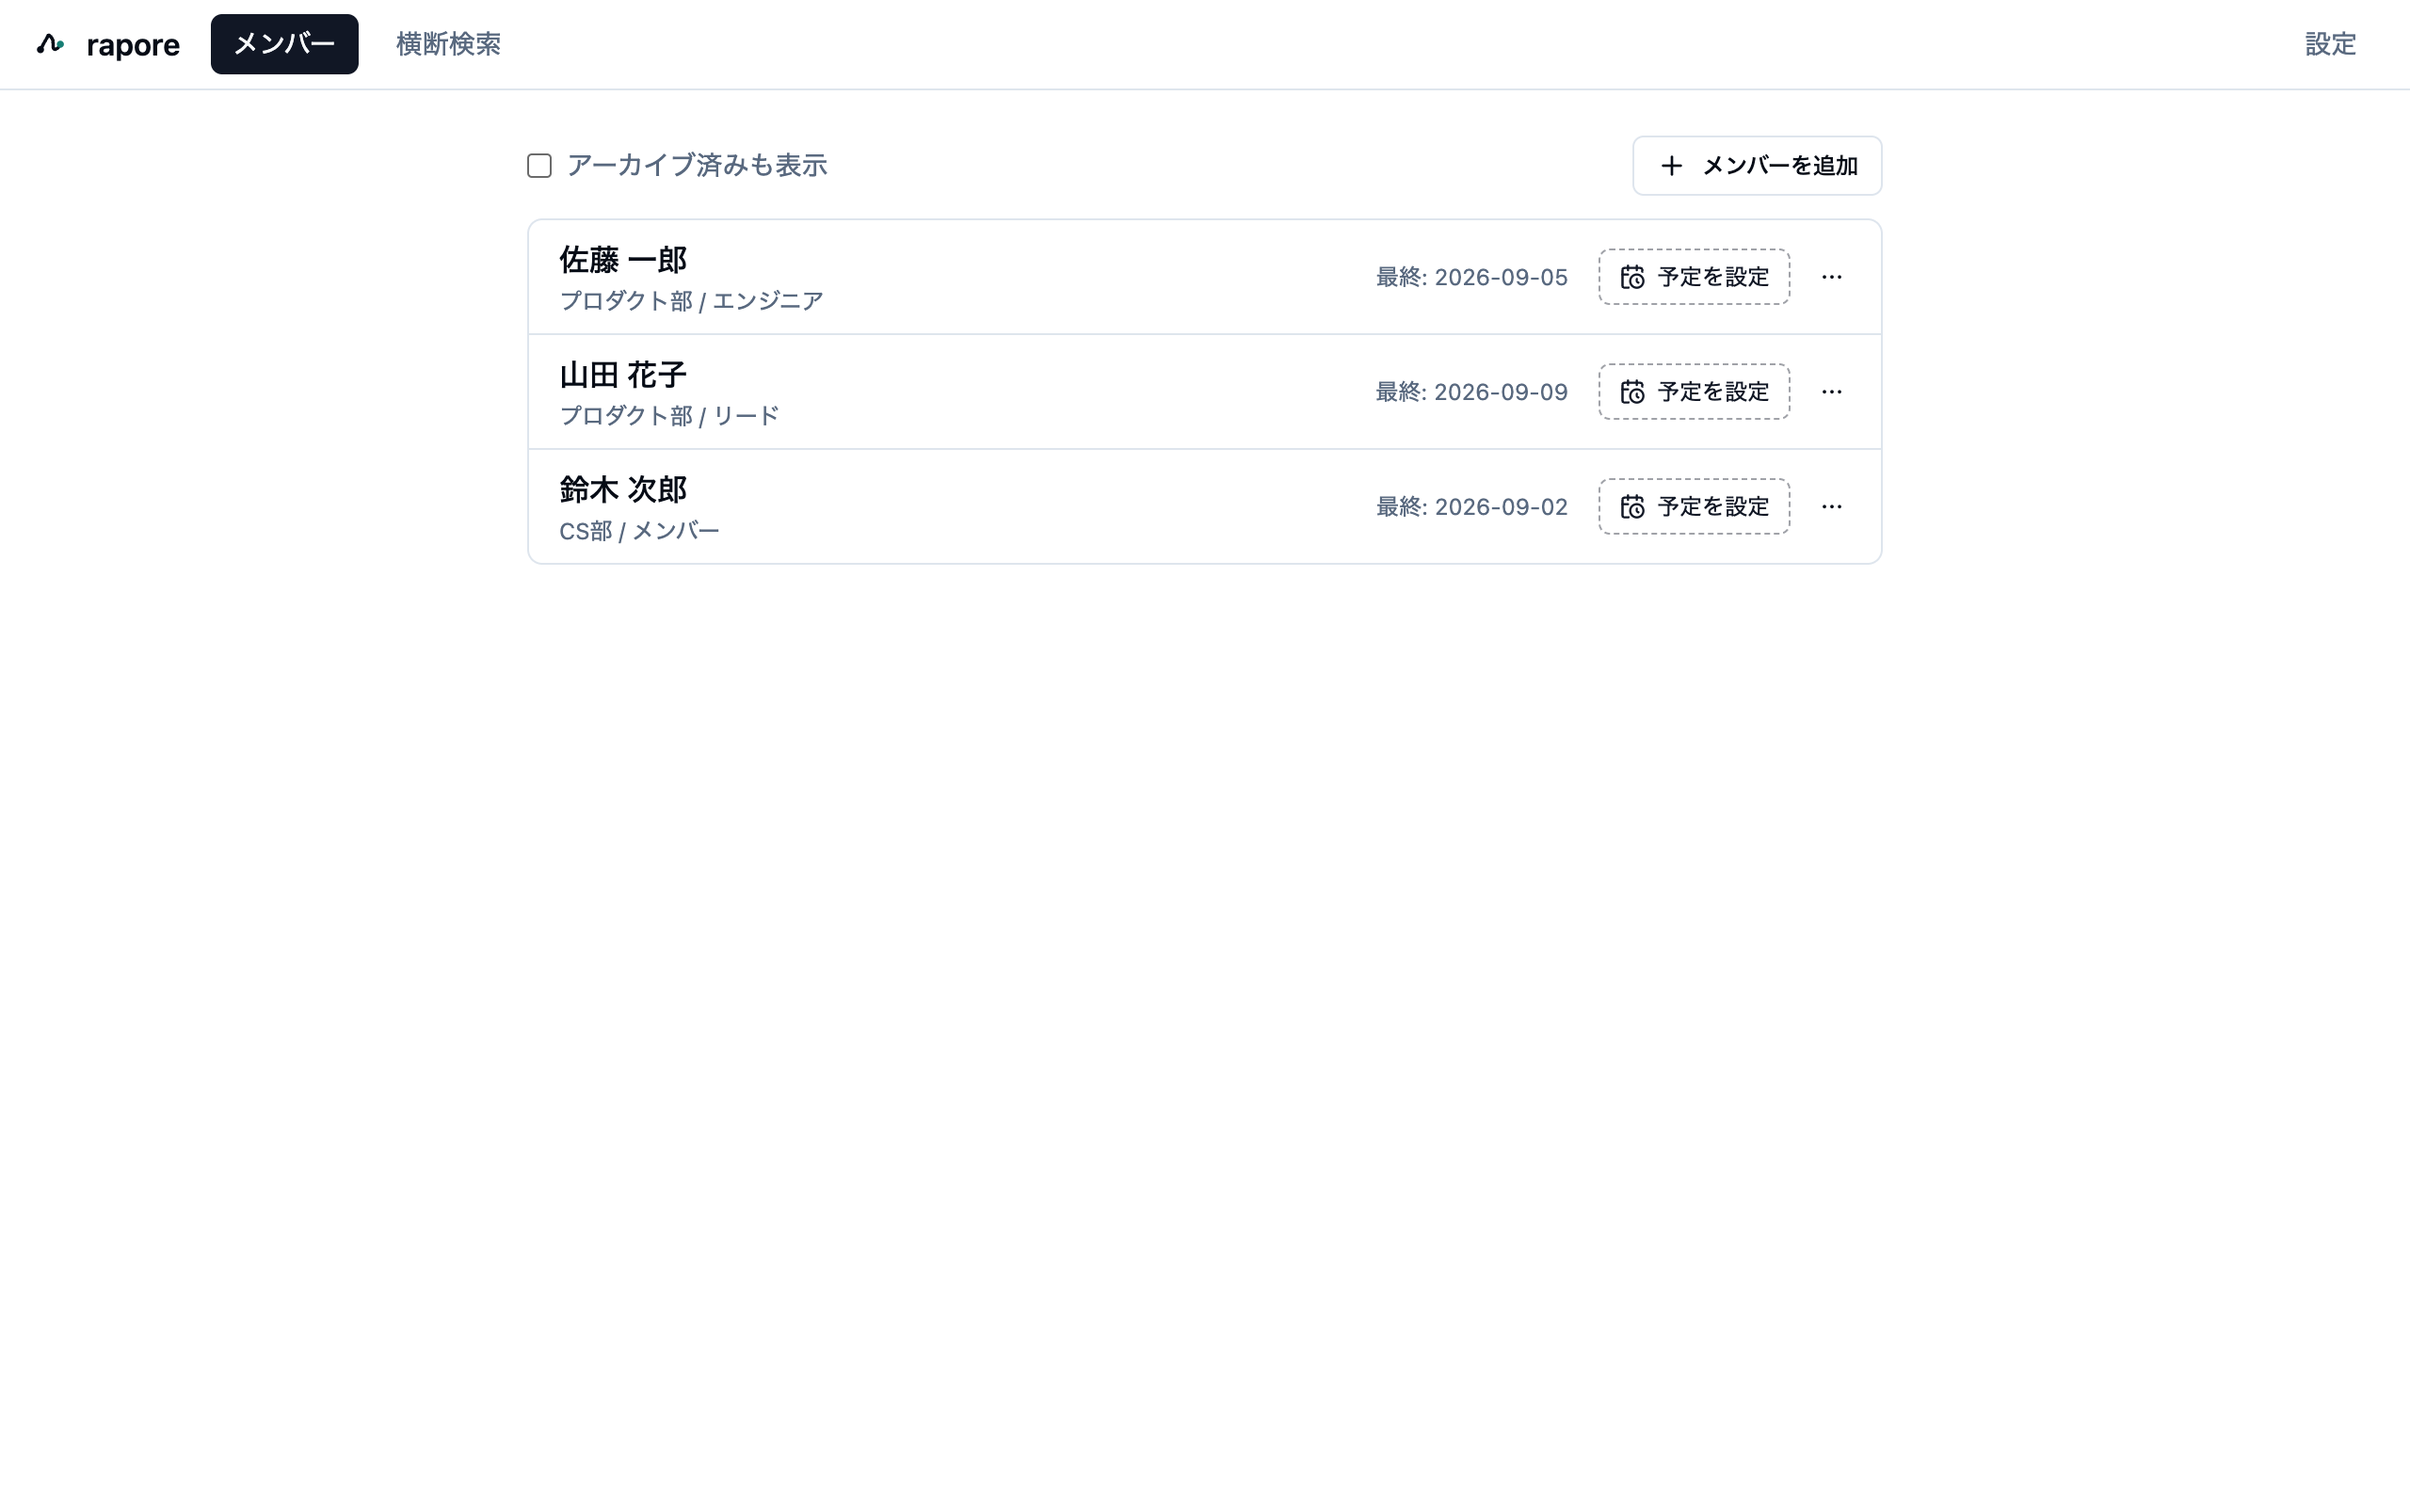
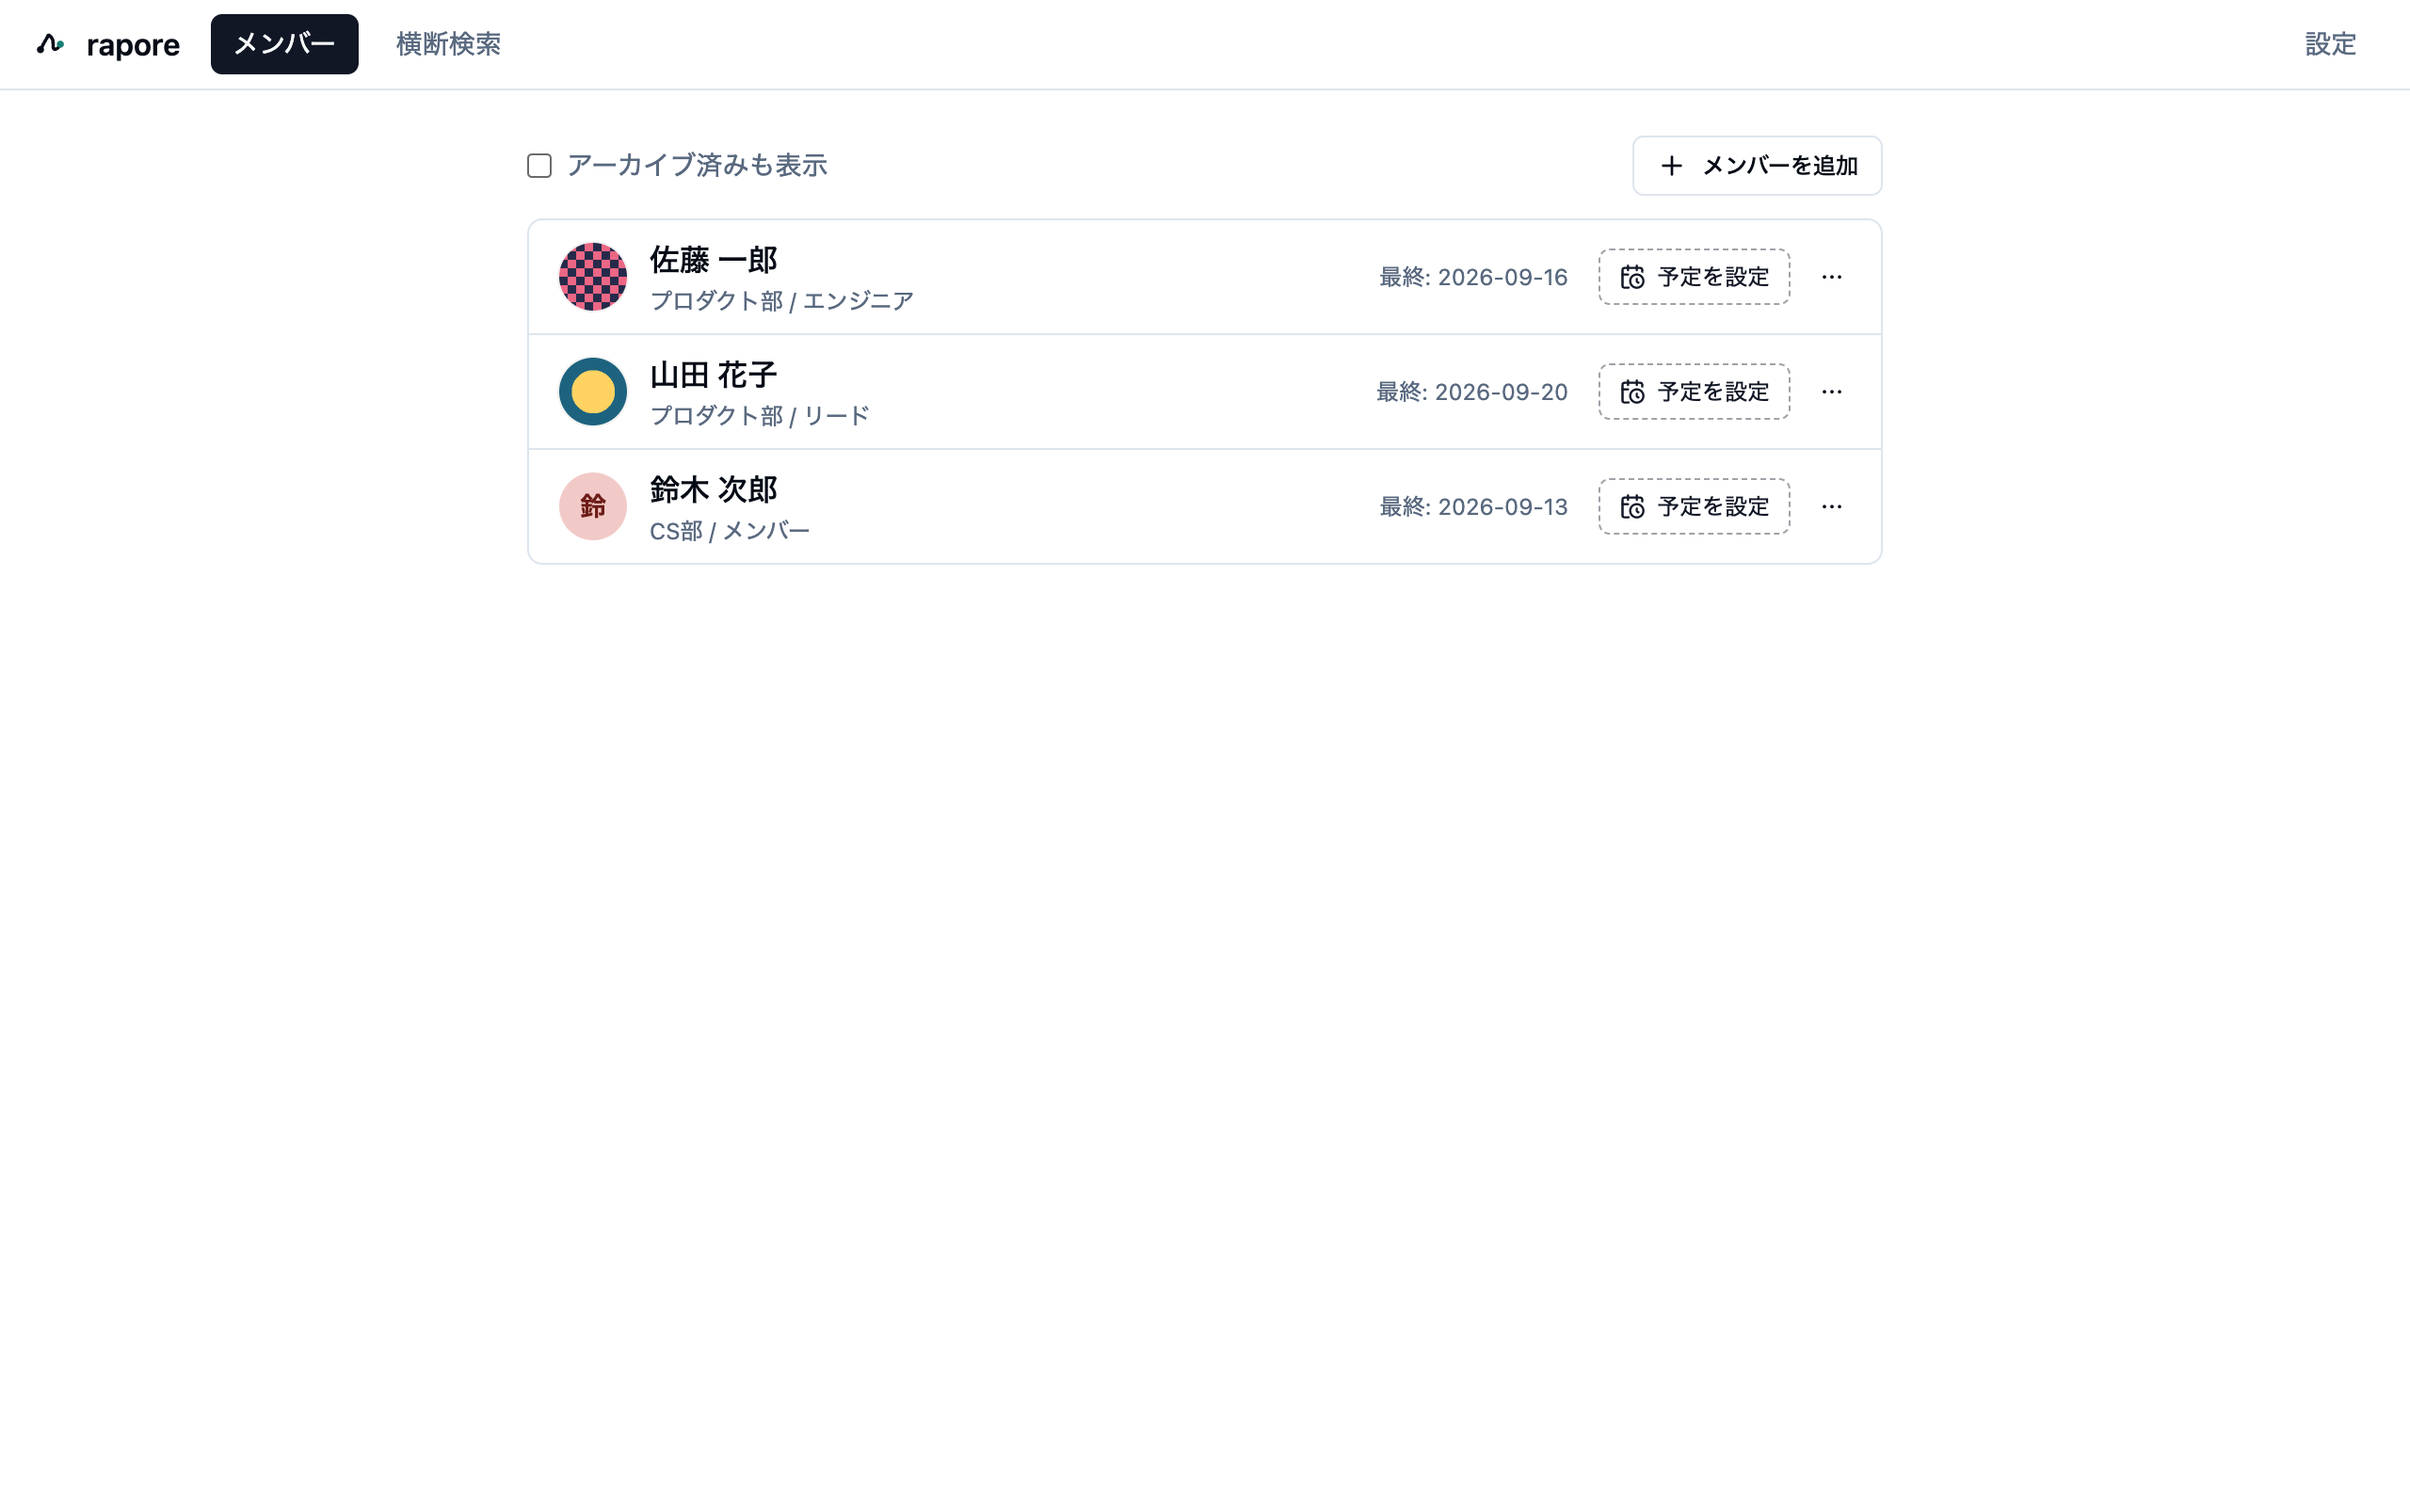
v0.3.0 のドキュメントを更新する

diff --git a/CHANGELOG.md b/CHANGELOG.md
@@ -4,6 +4,25 @@
 
 利用者から見える変更のみを記載しています。
 
+## v0.3.0
+
+**1on1 のたびに「今日の様子」を残せるようになりました。** 記録エディタで7段階（とても消耗している〜とても元気）から1つ選ぶだけです。選んだものをもう一度押せば取り消せます。**人事評価の道具ではなく、あなたから見た印象のメモ**です。
+
+**メンバーごとに「様子の推移」をグラフで見られます。** 人カードに並び、前回からの変化や、しばらく下がったままの人に気づけます。色だけでなく形と高さでも読めるようにしてあるので、色の見分けがつきにくい環境でも使えます。
+
+**メンバーにアイコン画像を設定できるようになりました。** 一覧に顔が並ぶと人を探しやすくなります。画像はアバターにドラッグ＆ドロップするか、アイコンをクリックして選んでください。設定した直後なら「元に戻す」で戻せます。**画像も端末内のデータベースに保存され、外部へは送信されません。**
+
+**バージョンアップのときに、アプリが自動で移行前の控えを作るようになりました。** 記録の保存形式が変わる更新では、変更を加える前にデータベース全体の写しを保存します（直近3回ぶんを保持し、古いものから自動で消えます）。控えが作れなかった場合はデータに触らず起動を中止します。ご自身でのバックアップが不要になるわけではありませんが、更新で記録を失う事故を防ぎます。
+
+**不具合修正**
+
+- 新しい記録を書いている途中に、同じ記録がタイムラインへ二重に表示されることがある問題を修正しました。
+
+既知の制限（v0.2.0 から変わりません）
+
+- コード署名を行っていないため、初回起動時に OS の警告が出ます。開き方は [INSTALL.md](./INSTALL.md) をご覧ください。
+- macOS は Apple Silicon（M1 以降）のみ対応です。
+
 ## v0.2.0
 
 **記録を削除できない不具合を修正しました。** 記録を開いて「削除」→「削除する」と進んでも何も起きない状態でした（v0.1.0 / v0.1.1 が該当します）。

diff --git a/PRIVACY.md b/PRIVACY.md
@@ -17,7 +17,7 @@ rapore は、**部下の情報を外に出さない**ことを設計の中心に
 
 ## 2. データの保存場所
 
-あなたが入力したすべてのデータ（メンバー名、1on1 の本文、プロフィール、トピック、タグ）は、**あなたの端末内の SQLite ファイル 1 つ**に保存されます。
+あなたが入力したすべてのデータ（メンバー名、1on1 の本文、プロフィール、トピック、タグ、**今日の様子（7段階の記録）**、**メンバーのアイコン画像**、本文に貼り付けた画像）は、**あなたの端末内の SQLite ファイル 1 つ**に保存されます。画像もこのファイルの中に入るので、外部のフォルダやサーバーに置かれることはありません。
 
 | OS | 保存場所 |
 |---|---|
@@ -45,6 +45,8 @@ rapore は、**部下の情報を外に出さない**ことを設計の中心に
 同じ理由で、DB ファイルを Dropbox / iCloud Drive / OneDrive 等の同期フォルダに**そのまま**置くとデータが破損することがあります。同期フォルダには、アプリが書き出した写しを置いてください（自動バックアップ機能が指定フォルダへ一貫したスナップショットを書き出します）。
 
 なお、同期フォルダへ書き出したバックアップは、そのクラウドサービスのプライバシーポリシーの対象になります。**その時点であなたのデータは端末外に出ます**のでご注意ください。この判断は利用者に委ねられています。
+
+また、**記録の保存形式が変わるバージョンアップでは、アプリが自動で移行前の控えを作ります**（DB と同じフォルダに `rapore-pre-v<版>-<日時>.db` という名前で、直近3回ぶんを保持し、古いものから自動で消えます）。この控えも端末内に置かれるだけで、外部へは送信されません。
 
 ## 6. データの持ち出し（ポータビリティ）
 

diff --git a/CHANGELOG.en.md b/CHANGELOG.en.md
@@ -4,6 +4,25 @@
 
 Only changes that are visible to you are listed here.
 
+## v0.3.0
+
+**You can now record “today’s read” with each 1-on-1.** Pick one of seven levels (very drained → very energized) in the session editor. Press the same one again to clear it. **This is your own impression, not a performance rating.**
+
+**Each person now has a mood trend chart.** It sits on their card, so you can see how the last session compares with earlier ones, or notice someone who has been low for a while. The chart is readable by shape and height as well as color, so it still works if colors are hard to tell apart.
+
+**You can give each person a photo.** Faces in the list make people easier to find. Drop an image onto the avatar, or click it to pick a file. You can undo a change right after making it. **Images are stored in the database on your machine and never transmitted.**
+
+**The app now keeps a copy of your data before an upgrade changes it.** When an update changes how records are stored, rapore saves a full copy of the database first (the three most recent copies are kept; older ones are removed automatically). If the copy cannot be written, the app stops instead of touching your data. This does not replace your own backups, but it does protect you from losing notes during an update.
+
+**Fixes**
+
+- A session you were still writing could appear twice in the timeline. Fixed.
+
+Known limitations (unchanged from v0.2.0)
+
+- The app is not code-signed, so your OS will warn you the first time you open it. See [INSTALL.en.md](./INSTALL.en.md).
+- macOS is supported on Apple Silicon (M1 and later) only.
+
 ## v0.2.0
 
 **Fixed: sessions could not be deleted.** Opening a session and choosing "Delete" then confirming did nothing (this affected v0.1.0 and v0.1.1).

diff --git a/PRIVACY.en.md b/PRIVACY.en.md
@@ -17,7 +17,7 @@ rapore is a 1-on-1 notes app designed around one idea: **your reports' informati
 
 ## 2. Where your data is stored
 
-Everything you type — names, 1-on-1 notes, profiles, topics, tags — is stored in **a single SQLite file on your own machine**.
+Everything you type — names, 1-on-1 notes, profiles, topics, tags, **today’s read (the seven-level entry)**, **member photos**, and images you paste into your notes — is stored in **a single SQLite file on your own machine**. Images live inside that same file, so nothing is written to an outside folder or server.
 
 | OS | Location |
 |---|---|
@@ -45,6 +45,8 @@ To back up, use **Settings → Backup → "Create a backup (.db)"** in the app. 
 For the same reason, putting the database file **directly** into a Dropbox / iCloud Drive / OneDrive folder can corrupt it. Put a copy written by the app there instead (the automatic backup feature writes a consistent snapshot to a folder you choose).
 
 Note that a backup written into a sync folder then falls under that cloud service's privacy policy. **At that point your data does leave your machine.** That decision is yours to make.
+
+Also, **when an update changes how records are stored, the app automatically saves a copy before migrating** (named `rapore-pre-v<version>-<timestamp>.db`, next to your database; the three most recent are kept and older ones are removed automatically). These copies stay on your machine and are never transmitted.
 
 ## 6. Getting your data out
 

diff --git a/README.md b/README.md
@@ -28,8 +28,10 @@
 - **メンバー（部下）管理** — 追加・編集・アーカイブ・完全削除
 - **1on1 セッション記録** — 面談日・本文（Markdown / WYSIWYG エディタ）・トピック・タグ
 - **履歴の高速参照** — メンバー別タイムライン、横断キーワード検索（本文・トピック・タグ）
+- **今日の様子** — 1on1 ごとに7段階で「あなたから見た印象」を残し、メンバーごとの推移をグラフで確認（人事評価の道具ではありません）
+- **メンバーのアイコン** — 顔写真を設定して一覧から人を見つけやすく（画像も端末内に保存されます）
 - **メンバーダッシュボード** — プロフィール4項目（価値観・モチベーション／キャリア志向・目標／強み・働き方・コミュニケーション傾向／個人的コンテキスト）と履歴を並べて表示
-- **ローカル保存** — 端末内 SQLite。保存場所はアプリの設定画面で確認できます
+- **ローカル保存** — 端末内 SQLite。保存場所はアプリの設定画面で確認できます。**バージョンアップで保存形式が変わるときは、変更前に自動で控えを作ります**（直近3回ぶん）
 - **日本語 / English** — 表示言語を切り替えできます（既定は OS のロケールに追従）
 
 ## 画面

diff --git a/README.en.md b/README.en.md
@@ -28,8 +28,10 @@ Get the latest build from **[Releases](../../releases/latest)**.
 - **Manage your reports** — add, edit, archive, or delete permanently
 - **Record 1-on-1s** — date, notes (Markdown / WYSIWYG), topics, tags
 - **Find past sessions fast** — a per-person timeline plus keyword search across everyone (notes, topics, tags)
+- **Today’s read** — record how someone seemed to you on a seven-level scale after each 1-on-1, and see the trend per person (it is your impression, not a performance rating)
+- **Member photos** — give each person a photo so the list is easier to scan (images are stored on your machine too)
 - **Member dashboard** — four profile fields (values & motivation / career direction & goals / strengths, working & communication style / personal context) shown next to the history
-- **Stored locally** — SQLite on your machine. The exact path is shown in Settings. Nothing is transmitted
+- **Stored locally** — SQLite on your machine. The exact path is shown in Settings. Nothing is transmitted. **Before an update changes how records are stored, the app saves a full copy first** (the three most recent are kept)
 - **English and Japanese** — follows your OS locale by default, switchable in Settings
 
 ## Screens
